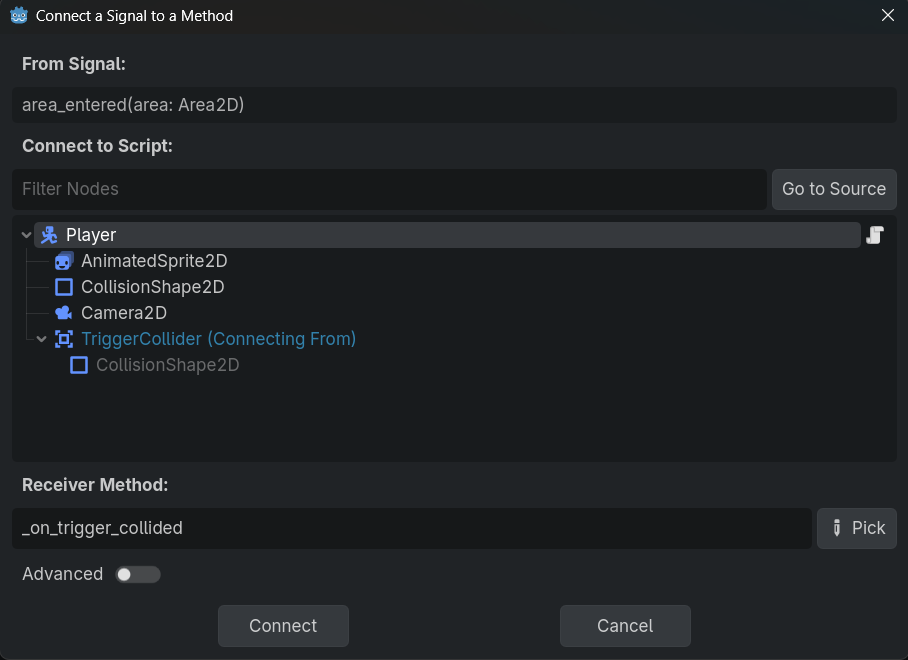
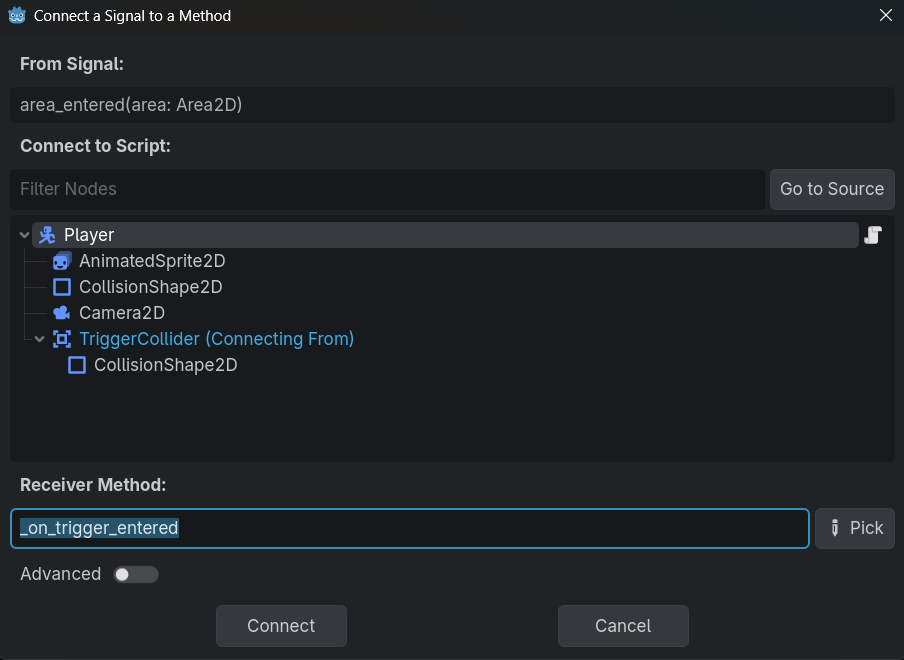
Worked on Gameplay mdoules

diff --git a/2026/gameplay/trigger_setup.html b/2026/gameplay/trigger_setup.html
@@ -37,29 +37,56 @@
 		<div class="col-lg-9 col-md-8 content">
 
 			<!-- Section -->
-			<h3>Title</h3>
-			<p>explanation.</p>
+			<h3>Trigger Setup</h3>
+			<p>On this page we will create the functionality for the player to interact with non-hazardous objects (what I call triggers). In later modules we will use this for adding things like gems, health pickups and checkpoints.</p>
 
-			<h4>Sub-title</h4>
-			<p>explanation.</p>
+			<h4>Creating the Trigger Physics Layer</h4>
+			<p>Before we can create any functionality for hazards, we need to let Godot know we want to track a new physics layer. Navigate to project settings, then find the Layer names -> 2D Physics option. Name Layer 4 Trigger.</p>
+			<img src="gameplay/images/trigger_physics_layers.png" class="img-fluid">
 
-			<!-- Hints -->
-			<p class="hint warning">IMPORTANT! This module requires the <a href="section/module.html">Module</a> module to be completed first!</p>
-
-			<p class="hint add-info">If you are not taking this course in person, you can download the assets <a href="#" target="_blank">Here<i class="linkbox bi bi-box-arrow-up-right"></i></a></p>
-
-			<p class="hint tip">explanation.</p>
-			
-			<!-- Images -->
-			<img src="section/images/wahoo.png" class="img-fluid" alt="description.">
-
-			<!-- Codeblock -->
+			<h4>Setting up the Player</h4>
+			<p>Next, we need to add a way for the player to detect triggers. We can do this by going to our player scene, right-clicking our player node and adding a new Area2D node. Let's name the new node TriggerCollider. Then, right-click the new node and add a CollisionShape2D node.</p>
+			<img src="gameplay/images/trigger_scene_tree.png" class="img-fluid">
+			<p>Right now, however, our collider is still set to default layers and masks. For this specific collider we actually want to set it's mask to trigger and have no layer. This is because we want the actual object to be able to run its own script instead of the player's. We can set the collision layers in the inspector while having the TriggerCollider selected.</p>
+			<img src="gameplay/images/player_trigger_collision.png" class="img-fluid">
+			<p>Next, select the new collision shape, go to the inspector and add a new rectange shape. Let's resize it to fit the player closer.</p>
+			<img src="gameplay/images/trigger_collision_shape.png" class="img-fluid">
+			<p class="hint tip">I generally make the trigger collider shape larger than the player's collider. This is to make collecting and interacting with positive objects easier. This makes the game feel more rewarding and "fair".</p>
+			<p>Of course, just setting up the collision doesn't do anything on its own. Next we want to connect our TriggerCollider's area_entered and body_entered signals to our player script. You can do this by selecting the TriggerCollider in the scene tree, then opening the signals tab in the inspector. Make both signals connect to a new function called _on_trigger_entered.</p>
+			<img src="gameplay/images/trigger_connect_signal.png" class="img-fluid">
+			<p class="hint alert">Note that we want both signals to connect to the same function. You can use the Pick button when connecting a signal to attach it to an existing function.</p>
+			<img src="gameplay/images/trigger_pick_method.png" class="img-fluid">
+			<p>Next, let's repeat the process for the area_exited and body_exited signals, connecting them to a _on_trigger_exited function. After that, your signals tab should look like this:</p>
+			<img src="gameplay/images/trigger_signals.png" class="img-fluid">
+			<p>Finally, lets add some code to those functions we connected the signals to. For each, we want to call a function (onEnter and onExit respectively) of the trigger the player collided with, passing the player itself as an argument. This will allow us to have triggers effect the player.
 			<div><button class="copy-code-btn btn" onclick="copyCode(this);"><i class="bi bi-clipboard"></i></button>
-			<pre><code class="language-gdscript">code</code></pre></div>
+			<pre><code class="language-gdscript">func _on_trigger_entered(trigger):
+	trigger.onEnter(self)
 
-			<div class="text-center">
-				<a href="section/module.html" class="btn col-lg-4 col-md-6 col-12">Next</a>
-			</div>
+func _on_trigger_exited(trigger):
+	trigger.onExit(self)</code></pre></div>
+
+			<h4>Setting up the Trigger Class</h4>
+			<p>Our final piece of this puzzle is creating a new class that stores all the shared functionality of all triggers.</p>
+			<p class="hint add-info">A class is kind of like a category. Any script can be made into a class, and other scripts can inherit from a class. Some example classes would be all of the nodes we have been making so far!</p>
+			<p>To get started, create a new script called trigger. You can create a script in the file system directly by right clicking, hovering over Create New and selecting Script. Have it inherit Area2D.</p>
+			<img src="gameplay/images/trigger_script.png" class="img-fluid">
+			<p>At the top of the script (above extends Area2D), add class_name Trigger. The keyword class_name tells Godot you want this to be a new class, with the name following immediately after. Next, lets make the two functions we called in the player script: onEnter and onExit, adding the player as an argument. For now, just set them to pass.</p>
+			<div><button class="copy-code-btn btn" onclick="copyCode(this);"><i class="bi bi-clipboard"></i></button>
+			<pre><code class="language-gdscript">class_name Trigger
+extends Area2D
+
+func onEnter(player):
+	pass
+
+func onExit(player):
+	pass</code></pre></div>
+			<p>And we have triggers set up! In order to add some actual functionality, go ahead and try one of these modules next!</p>
+			<ul>
+				<li><a href="gameplay/buttons_and_switches.html">Buttons and Switches</a></li>
+				<li><a href="gameplay/checkpoints.html">Checkpoints</a></li>
+				<li><a href="gameplay/collectables.html">Collectables</a></li>
+			</ul>
 		</div>
 	</div>
 	<div class="row">
@@ -69,7 +96,7 @@
 </div>
 <script>
 	function triggerExpand() {
-		expandAndHighlight('home',null,null)
+		expandAndHighlight('Gameplay','TriggerSetup','gameplayToggle')
 	}
 </script>
 </body>

diff --git a/2026/gameplay/collectables.html b/2026/gameplay/collectables.html
@@ -37,29 +37,48 @@
 		<div class="col-lg-9 col-md-8 content">
 
 			<!-- Section -->
-			<h3>Title</h3>
-			<p>explanation.</p>
+			<h3>Collectables</h3>
+			<p class="hint warning"><strong>IMPORTANT! This module requires the <a href="trigger_setup.html">Trigger Setup</a> module to be completed first!</strong></p>
+			<p>In this module we will be creating pick-ups, objects the player can run into for some benefit. Many other modules will use this functionality, but for now we will simply add gems the player can pick up.</p>
 
-			<h4>Sub-title</h4>
-			<p>explanation.</p>
+			<h4>Creating the Pickup Scene</h4>
+			<p>Due to the fact so many different modules will require the player to be able to pick something up, we will be making a parent scene first and foremost with the basic pickup functionality. To get started, create a new scene. For the root node, select an Area2D node and rename it to Pickup. Then, create two new child nodes for the Pickup node, one being an CollisionShape2D and another being an AnimatedSprite2D. The scene should then look like this:</p>
+			<img class="img-fluid" src="gameplay/images/pickup_scene_tree.png" alt="Pickup scene tree">
+			<p class="hint alert">Note that we are not adding a collision shape nor sprite frames to our Pickup scene. This is so that each inherited scene can have it's own unique animations and collision shapes!</p>
+			<p>Next, we need to set the Pickup node's collision layers and masks. In the inspector while you have the Pickup node selected go under the collision section. We will set the masks to be empty and the layer to be our trigger layer, like so:</p>
+			<img class="img-fluid" src="gameplay/images/trigger_collision.png" alt="Pickup scene tree">
 
-			<!-- Hints -->
-			<p class="hint warning">IMPORTANT! This module requires the <a href="section/module.html">Module</a> module to be completed first!</p>
-
-			<p class="hint add-info">If you are not taking this course in person, you can download the assets <a href="#" target="_blank">Here<i class="linkbox bi bi-box-arrow-up-right"></i></a></p>
-
-			<p class="hint tip">explanation.</p>
-			
-			<!-- Images -->
-			<img src="section/images/wahoo.png" class="img-fluid" alt="description.">
-
-			<!-- Codeblock -->
+			<h4>Creating the Pickup Script</h4>
+			<p>Creating the script for pickups is pretty simple. First select the Pickup node and add a new script, having it inherit from our Trigger class. At the top of the script, above the extends Trigger we will make our pickups a new class by adding class_name Pickup. By adding a new class name, we effectively create a new node type that other scripts can inherit from. So later when we create new types of pickups, we don't need to copy any code we already wrote!</p>
 			<div><button class="copy-code-btn btn" onclick="copyCode(this);"><i class="bi bi-clipboard"></i></button>
-			<pre><code class="language-gdscript">code</code></pre></div>
+			<pre><code class="language-gdscript">class_name Pickup
+extends Trigger</code></pre></div>
+			<p>Next we want to override the onEnter function from the Trigger class, specifically in the function body we want to call the queue_free() method, like so:</p>
+			<div><button class="copy-code-btn btn" onclick="copyCode(this);"><i class="bi bi-clipboard"></i></button>
+			<pre><code class="language-gdscript">func onEnter(_player):
+	queue_free()</code></pre></div>
+			<p class="hint tip">Note that we aren't actually using the _player argument right now. Future pickups will use it, but since we aren't here I added an underscore to let Godot know it is on purpose (otherwise it would give us a warning).</p>
+			<p>Make sure to save the Pickup scene!</p>
 
-			<div class="text-center">
-				<a href="section/module.html" class="btn col-lg-4 col-md-6 col-12">Next</a>
-			</div>
+			<h4>Creating the Jade Pickup</h4>
+			<p>Of course, right now we don't have any pickup for the player to interact with. To remedy this we need to create a new inherited scene. In the filesystem right click the pickup scene and select new inherited scene.</p>
+			<img src="gameplay/images/pickup_new_inherited_scene.png" class="img-fluid" alt="New inherited scene from pickup scene.">
+			<p>In the new scene, rename the Pickup node to Jade, then select the AnimatedSprite2D node. In the inspector create a new sprite frames and import the jade sprite from the Pickups folder in your VGDC Assets folder.</p>
+			<p class="hint add-info">If you are not taking this course in person, you can download the assets <a href="https://drive.google.com/drive/folders/1p7nq1mwo_H3OeOks60P1RyR8Yosre2sC?usp=sharing" target="_blank">Here<i class="linkbox bi bi-box-arrow-up-right"></i></a></p>
+			<p>In the sprite frames, import the jade sprite as a sprite sheet, set it to autoplay on load, set the play speed to 12 fps and set the first frame's duration to 50 like so:</p>
+			<img src="gameplay/images/jade_sprite_frames.png" class="img-fluid" alt="Jade sprite frames.">
+			<p>Next, we need to add a collision shape to our jade pickup. Select the Collisionshape2D node and in the inspector create a new circle shape. Resize it to fit the sprite.</p>
+			<img src="gameplay/images/jade_collision_shape.png" class="img-fluid" alt="Jade viewport with sprite and collision shape.">
+			<p>And that is the pickup done! you can save the scene and drag and drop it into your world scene as per usual, though you may notice a problem: adding many pickups quickly begins to clutter the world's scene tree. To fix this we can use another function of the Tilemap node.</p>
+			
+			<h4>Creating a Scene Collection</h4>
+			<p>In the world scene, right click the World node and create a new TileMapLayer node as a child node. Name it LevelObjects. In the inspector create a new tileset, then in the tileset tab in the bottom bar press the plus symbol. You will see the option for an atlas (which we already have used) and one for a new scenes collection, select that.</p>
+			<img src="gameplay/images/new_scene_collection.png" class="img-fluid" alt="New scene collection.">
+			<p>A scene collection is a grouping of scenes as tiles, allowing you to place scenes the same way you do with tiles, as well as neatly organizing them as to not clutter up the scene tree. Make sure to name the scene collection (I will name mine Pickups) then you can drag and drop the jade scene into the large box on the right of the bottom bar.</p>
+			<img src="gameplay/images/pickup_tileset.png" class="img-fluid" alt="Pickups tileset.">
+			<p>Go ahead and save the scene, then select the tilemap tab in the bottom bar. You can now place the jade scene in the same way you placed your ground tiles!</p>
+			<p class="hint tip">Note that you can put as many scene collections and scenes into the LevelObjects tilemap. You can add other pickups, enemies and even the player! Go ahead and try out organizing your level scene with scene collections!</p>
+			<p>And that is pickups set up! While the jade doesn't do anything right now, in later modules you can add score to it, or simply have it as a way to guide players through the level. Either way, test it out, then move on to another module!</p>
 		</div>
 	</div>
 	<div class="row">
@@ -69,7 +88,7 @@
 </div>
 <script>
 	function triggerExpand() {
-		expandAndHighlight('home',null,null)
+		expandAndHighlight('Gameplay','Collectables','gameplayToggle')
 	}
 </script>
 </body>

diff --git a/2026/gameplay/checkpoints.html b/2026/gameplay/checkpoints.html
@@ -37,29 +37,35 @@
 		<div class="col-lg-9 col-md-8 content">
 
 			<!-- Section -->
-			<h3>Title</h3>
-			<p>explanation.</p>
-
-			<h4>Sub-title</h4>
-			<p>explanation.</p>
-
-			<!-- Hints -->
-			<p class="hint warning">IMPORTANT! This module requires the <a href="section/module.html">Module</a> module to be completed first!</p>
-
-			<p class="hint add-info">If you are not taking this course in person, you can download the assets <a href="#" target="_blank">Here<i class="linkbox bi bi-box-arrow-up-right"></i></a></p>
-
-			<p class="hint tip">explanation.</p>
-			
-			<!-- Images -->
-			<img src="section/images/wahoo.png" class="img-fluid" alt="description.">
-
-			<!-- Codeblock -->
+			<h3>Checkpoints</h3>
+			<p class="hint warning"><strong>IMPORTANT! This module requires the <a href="trigger_setup.html">Trigger Setup</a> and <a href="hazard_setup.html">Hazard Setup</a> modules to be completed first!</strong></p>
+			<p>Checkpoints are points in a level where the player can effectively save their progress, allowing them to return to the checkpoint if they fail instead of restarting the whole level! Adding checkpoints can allow you to make longer and more challenging levels while also lessening how "unfair" the game feels. On this page we will create a checkpoint that activates when the player touches it, allowing them to respawn and playing a short animation.</p>
+			<h4>Creating the Checkpoint Scene</h4>
+			<p>First things first, we need to create a new scene. Choose an Area2D node as the root node and rename it to Checkpoint. Next, right click the Checkpoint node and add a CollisionShape2D node and an AnimatedSprite2D node as children. The scene tree should now look like this:</p>
+			<img src="gameplay/images/checkpoint_scene_tree.png" class="img-fluid" alt="Scene tree for the checkpoint scene.">
+			<p>Select the checkpoint module. Go to the inspector and under collisions set the physics layers to be empty and the physics layer to our trigger layer, like so:</p>
+			<img src="gameplay/images/trigger_collision.png" class="img-fluid" alt="Physics layers for our checkpoint.">
+			<h4>Creating the Checkpoint Sprite Frames and Collision Shape</h4>
+			<p>Next select the AnimatedSprite2D node. In the inspector create a new sprite frames. Import the Checkpoint sprite from the Checkpoints folder in your VGDC Assets folder. Choose the color of checkpoint you want and import it as a sprite sheet.</p>
+			<p class="hint add-info">If you are not taking this course in person, you can download the assets <a href="https://drive.google.com/drive/folders/1p7nq1mwo_H3OeOks60P1RyR8Yosre2sC?usp=sharing" target="_blank">Here<i class="linkbox bi bi-box-arrow-up-right"></i></a></p>
+			<p>Lets's rename the animation to activate. Additionally, lets disable autoplay and looping, and set the animation speed to 12.</p>
+			<img src="gameplay/images/checkpoint_sprite_frames.png" class="img-fluid" alt="Sprite frames for the checkpoint.">
+			<p>Next select the CollisionShape2D node in the scene tree. In the inspector create a new rectangle collision shape. We want the new shape to be slightly larger than the checkpoint itself (you can change the animation frame to the last one in the inspector if you want to see the full size of the flower to set the collision shape.)</p>
+			<img src="gameplay/images/checkpoint_collision_shape.png" class="img-fluid" alt="Viewport view of the checkpoint including it's collision shape.">
+			<h4>Creating the Checkpoint Script</h4>
+			<p>Of course we still don't have any functionality yet. Let's add a new script to the Checkpoint node, having it inherit from our Trigger class.</p>
+			<img src="gameplay/images/checkpoint_create_script.png" class="img-fluid" alt="Creating a new script for our checkpoint.">
+			<p>In the checkpoint script itself we need to first add a new variable: active. This variable will store whether or not the checkpoint has been activated, in order to prevent it from playing it's activate animation each time the player touches it. Let's start it off as false.</p>
 			<div><button class="copy-code-btn btn" onclick="copyCode(this);"><i class="bi bi-clipboard"></i></button>
-			<pre><code class="language-gdscript">code</code></pre></div>
-
-			<div class="text-center">
-				<a href="section/module.html" class="btn col-lg-4 col-md-6 col-12">Next</a>
-			</div>
+			<pre><code class="language-gdscript">var active = false</code></pre></div>
+			<p>Finally, let's override the onEnter function from the Trigger class, having it set the player's respawn_point, play its activate animation (if not already active) and then setting its active variable to true:</p>
+			<div><button class="copy-code-btn btn" onclick="copyCode(this);"><i class="bi bi-clipboard"></i></button>
+			<pre><code class="language-gdscript">func onEnter(player):
+	player.respawn_point = global_position
+	if not active:
+		$AnimatedSprite2D.play("activate")
+	active = true</code></pre></div>
+			<p>And you are done! Go ahead and add some checkpoints into your world and try them out, then move on to another module!</p>
 		</div>
 	</div>
 	<div class="row">
@@ -69,7 +75,7 @@
 </div>
 <script>
 	function triggerExpand() {
-		expandAndHighlight('home',null,null)
+		expandAndHighlight('Gameplay','Checkpoints','gameplayToggle')
 	}
 </script>
 </body>

diff --git a/2026/navigation/sidebar.html b/2026/navigation/sidebar.html
@@ -45,7 +45,7 @@
 			</ul>
 		</li>
 		<li class="nav-item">
-			<a class="nav-link" data-bs-toggle="collapse" href="#gameplayToggle" id="fun">Gameplay<i class="caret bi bi-caret-right-fill"></i></a>
+			<a class="nav-link" data-bs-toggle="collapse" href="#gameplayToggle" id="Gameplay">Gameplay<i class="caret bi bi-caret-right-fill"></i></a>
 			<ul class="collapse" id="gameplayToggle">
 				<li><a class="nav-link" id="TriggerSetup" href="gameplay/trigger_setup.html">Trigger Setup</a></li>
 				<li><a class="nav-link" id="ButtonsAndSwitches" href="gameplay/buttons_and_switches.html">Buttons and Switches <sup class="new-tag">New!</sup></a></li>
@@ -59,7 +59,7 @@
 			</ul>
 		</li>
 		<li class="nav-item">
-			<a class="nav-link" data-bs-toggle="collapse" href="#hazardToggle" id="hazard">Hazards<i class="caret bi bi-caret-right-fill"></i></a>
+			<a class="nav-link" data-bs-toggle="collapse" href="#hazardToggle" id="Hazard">Hazards<i class="caret bi bi-caret-right-fill"></i></a>
 			<ul class="collapse" id="hazardToggle">
 				<li><a class="nav-link" id="Setup" href="hazards/hazard_setup.html">Hazard Setup</a></li>
 				<li><a class="nav-link" id="Health1" href="hazards/health1.html">Health Part 1</a></li>
@@ -75,7 +75,7 @@
 			</ul>
 		</li>
 		<li class="nav-item">
-			<a class="nav-link" data-bs-toggle="collapse" href="#visualsToggle" id="vs">Visuals<i class="caret bi bi-caret-right-fill"></i></a>
+			<a class="nav-link" data-bs-toggle="collapse" href="#visualsToggle" id="Visuals">Visuals<i class="caret bi bi-caret-right-fill"></i></a>
 			<ul class="collapse" id="visualsToggle">
 				<li><a class="nav-link" id="JuiceSetup" href="visuals/juice_setup.html">Juice Setup</a></li>
 				<li><a class="nav-link" id="Background" href="visuals/background.html">Background</a></li>
@@ -91,7 +91,7 @@
 			</ul>
 		</li>
 		<li class="nav-item">
-			<a class="nav-link" data-bs-toggle="collapse" href="#audioToggle" id="vs">Audio<i class="caret bi bi-caret-right-fill"></i></a>
+			<a class="nav-link" data-bs-toggle="collapse" href="#audioToggle" id="Audio">Audio<i class="caret bi bi-caret-right-fill"></i></a>
 			<ul class="collapse" id="audioToggle">
 				<li><a class="nav-link" id="EnemySounds" href="audio/enemy_sounds.html">Enemy Sounds</a></li>
 				<li><a class="nav-link" id="GameplaySounds" href="audio/gameplay_sounds.html">Gameplay Sounds</a></li>
@@ -101,7 +101,7 @@
 			</ul>
 		</li>
 		<li class="nav-item">
-			<a class="nav-link" data-bs-toggle="collapse" href="#miscToggle" id="misc">Miscellaneous<i class="caret bi bi-caret-right-fill"></i></a>
+			<a class="nav-link" data-bs-toggle="collapse" href="#miscToggle" id="Misc">Miscellaneous<i class="caret bi bi-caret-right-fill"></i></a>
 			<ul class="collapse" id="miscToggle">
 				<li><a class="nav-link" id="GlobalScript" href="misc/global_script.html">Global Script</a></li>
 				<li><a class="nav-link" id="MainMenu" href="misc/main_menu.html">Main Menu <sup class="new-tag">New!</sup></a></li>

diff --git a/2026/modules.html b/2026/modules.html
@@ -133,8 +133,8 @@
 				<tbody>
 					<tr>
 						<th scope="row"><a href="gameplay/trigger_setup.html">Trigger Setup</a></th>
-						<td>10 Minutes</td>
-						<td class="complexity">1</td>
+						<td>15 Minutes</td>
+						<td class="complexity">1.5</td>
 					</tr>
 					<tr>
 						<th scope="row"><a href="gameplay/buttons_and_switches.html">Buttons and Switches</a> <sup class="new-tag">New!</sup></th>

diff --git a/2026/gameplay/useful_collectables.html b/2026/gameplay/useful_collectables.html
@@ -69,7 +69,7 @@
 </div>
 <script>
 	function triggerExpand() {
-		expandAndHighlight('home',null,null)
+		expandAndHighlight('Gameplay','UsefulCollectables','gameplayToggle')
 	}
 </script>
 </body>